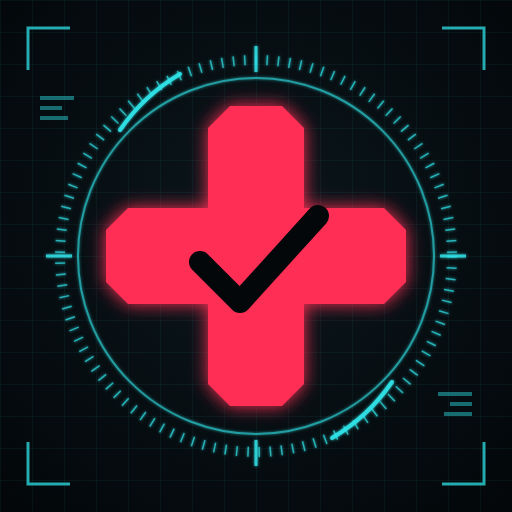
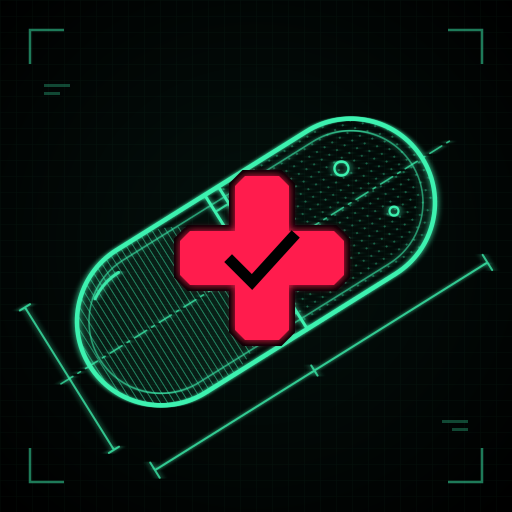
Własna ikona: kapsułka jak rysunek techniczny + czerwony krzyż z ptaszkiem
Rysuje narzedzia/ikony.py (icons/ikona.svg, ikona-mask.svg → PNG przez
rsvg-convert): 512, maskowalna 512, 192, 180 (iPhone), 32. Strona 2.1.6.

Claude-Session: https://claude.ai/code/session_01MPdLYsha9Aq7gx6zayc931

diff --git a/sw.js b/sw.js
@@ -1,6 +1,6 @@
 /* Service worker: aplikacja otwiera się nawet bez internetu (z ostatnimi danymi zapisanymi w przeglądarce).
    Strona i ikony: najpierw sieć, a gdy jej nie ma – kopia z pamięci. Zapytania do arkusza (script.google.com) nie są tu obsługiwane. */
-const CACHE = 'zdrowie-v2-1-4';   // podbij przy każdej wersji strony (ta sama co CLIENT_VERSION w app.js)
+const CACHE = 'zdrowie-v2-1-6';   // podbij przy każdej wersji strony (ta sama co CLIENT_VERSION w app.js)
 const SHELL = ['./', './index.html', './fonts.css', './styles.css', './skin-neon.css', './skin-synthwave.css', './skin-racer.css', './config.js', './skin.js', './rdzen.js', './logika.js', './app.js', './moduly.js', './manifest.webmanifest',
   './icons/icon-192.png', './icons/icon-512.png', './icons/icon-maskable-512.png', './icons/favicon-32.png', './icons/apple-touch-icon.png'];
 

diff --git a/app.js b/app.js
@@ -6,7 +6,7 @@
  * widok = dziennik z modelu + wpisy czekające w kolejce (Rdzen.outbox) + wpisy wysłane przed chwilą.
  * Kolejność plików: config.js → rdzen.js → logika.js → app.js → moduly.js. Start (Rdzen.boot) po wczytaniu wszystkich.
  ****************************************************************/
-window.CLIENT_VERSION = '2.1.4';
+window.CLIENT_VERSION = '2.1.6';
 (function () {
   'use strict';
   const L = Logika, esc = Rdzen.esc;

diff --git a/narzedzia/ikony.py b/narzedzia/ikony.py
@@ -1,62 +1,78 @@
-# Ikony aplikacji Zdrowie (od v2.0): czerwony krzyż z ptaszkiem (wariant C) na ciemnym tle w stylu planu technicznego.
-# Rysuje SVG (ikona-A/B/C.svg, wersje -mask do maskowania na Androidzie). PNG w icons/ powstały przez zrzut SVG w przeglądarce
-# (512, 192, 180 dla iPhone'a, maskowalna 512) i uproszczoną wersję 32 px. Źródło: icons/ikona.svg.
-import sys
-CYAN = '#2fe3e8'; RED = '#ff2d55'; BG1 = '#0b171c'; BG2 = '#03070a'
+# Ikony aplikacji Zdrowie (od v2.1.6): własny znak w klimacie „planu technicznego” – czarne tło, kapsułka leku
+# narysowana zielonymi liniami jak rysunek techniczny (kreskowanie, oś, wymiary) i czerwony krzyż z wyciętym ptaszkiem.
+# Rysuje icons/ikona.svg i icons/ikona-mask.svg (wersja do maskowania na Androidzie), PNG robi rsvg-convert.
+# Uruchom: python3 narzedzia/ikony.py
+import pathlib, subprocess
+from PIL import Image
 
-def tlo(maskowalna=False):
-    s = f'''<defs>
-  <radialGradient id="bg" cx="50%" cy="46%" r="70%"><stop offset="0" stop-color="{BG1}"/><stop offset="1" stop-color="{BG2}"/></radialGradient>
-  <filter id="glow" x="-30%" y="-30%" width="160%" height="160%"><feGaussianBlur stdDeviation="9" result="b"/><feMerge><feMergeNode in="b"/><feMergeNode in="SourceGraphic"/></feMerge></filter>
-  <filter id="cglow" x="-10%" y="-10%" width="120%" height="120%"><feGaussianBlur stdDeviation="1.6" result="b"/><feMerge><feMergeNode in="b"/><feMergeNode in="SourceGraphic"/></feMerge></filter>
-  <pattern id="grid" width="32" height="32" patternUnits="userSpaceOnUse"><path d="M32 0H0V32" fill="none" stroke="{CYAN}" stroke-opacity=".10" stroke-width="1"/></pattern>
-</defs>
-<rect width="512" height="512" fill="url(#bg)"/>
-<rect width="512" height="512" fill="url(#grid)"/>'''
-    # pierścień skanera z podziałką
-    s += f'''<g fill="none" stroke="{CYAN}" filter="url(#cglow)">
-  <circle cx="256" cy="256" r="178" stroke-opacity=".55" stroke-width="2"/>
-  <circle cx="256" cy="256" r="196" stroke-opacity=".7" stroke-width="10" stroke-dasharray="1.5 9.75"/>
-  <path d="M256 46v26M256 440v26M46 256h26M440 256h26" stroke-opacity=".8" stroke-width="3"/>
-  <path d="M120 130a190 190 0 0 1 60-56" stroke-opacity=".9" stroke-width="4" stroke-linecap="round"/>
-  <path d="M392 382a190 190 0 0 1-60 56" stroke-opacity=".9" stroke-width="4" stroke-linecap="round"/>
-</g>'''
-    if not maskowalna:
-        # narożniki i bloki „danych” (poza bezpieczną strefą maskowania)
-        s += f'''<g fill="none" stroke="{CYAN}" stroke-opacity=".75" stroke-width="3">
-  <path d="M28 70V28h42M484 70V28h-42M28 442v42h42M484 442v42h-42"/></g>
-<g fill="{CYAN}" fill-opacity=".45">
-  <rect x="40" y="96" width="34" height="4"/><rect x="40" y="106" width="22" height="4"/><rect x="40" y="116" width="28" height="4"/>
-  <rect x="438" y="392" width="34" height="4"/><rect x="450" y="402" width="22" height="4"/><rect x="444" y="412" width="28" height="4"/>
-</g>'''
-    return s
+D = pathlib.Path(__file__).resolve().parent.parent / 'icons'
+ZIEL = '#3cf2b0'; CZER = '#ff1f4d'; TLO = '#000000'
 
-def krzyz(w=96, l=300, sciecie=22):
+
+def krzyz(w=54, l=164, sciecie=10):
     a, b, c = w / 2, l / 2, sciecie
     pts = [(-a, -b + c), (-a + c, -b), (a - c, -b), (a, -b + c), (a, -a), (b - c, -a), (b, -a + c), (b, a - c), (b - c, a), (a, a),
            (a, b - c), (a - c, b), (-a + c, b), (-a, b - c), (-a, a), (-b + c, a), (-b, a - c), (-b, -a + c), (-b + c, -a), (-a, -a)]
-    return 'M' + ' L'.join(f'{256 + x:.1f} {256 + y:.1f}' for x, y in pts) + ' Z'
+    return 'M' + ' L'.join(f'{x:.1f} {y:.1f}' for x, y in pts) + ' Z'
 
-def wariant(nr, maskowalna=False):
-    skala = 0.86 if maskowalna else 1
-    g = f'<g transform="translate(256 256) scale({skala}) translate(-256 -256)">'
-    if nr == 'A':      # krzyż z linią pulsu (EKG) wyciętą w poziomym ramieniu
-        g += f'''<path d="{krzyz()}" fill="{RED}" filter="url(#glow)"/>
-<path d="M98 256h96l18-34 26 74 24-92 22 72 14-20h116" fill="none" stroke="{BG2}" stroke-width="13" stroke-linejoin="round" stroke-linecap="round"/>'''
-    elif nr == 'B':    # krzyż przecięty ukośnym cięciem, z obwódką jak z planu
-        g += f'''<path d="{krzyz()}" fill="{RED}" filter="url(#glow)"/>
-<path d="M150 362 362 150" stroke="{BG2}" stroke-width="14"/>
-<path d="{krzyz(132, 336, 30)}" fill="none" stroke="{RED}" stroke-opacity=".55" stroke-width="2.5" stroke-dasharray="14 8"/>'''
-    else:              # krzyż z wyciętym „ptaszkiem” odhaczenia
-        g += f'''<path d="{krzyz()}" fill="{RED}" filter="url(#glow)"/>
-<path d="M200 262l40 40 78-86" fill="none" stroke="{BG2}" stroke-width="22" stroke-linecap="round" stroke-linejoin="round"/>'''
-    return g + '</g>'
 
-def svg(nr, maskowalna=False):
-    return f'<svg xmlns="http://www.w3.org/2000/svg" viewBox="0 0 512 512" width="512" height="512">{tlo(maskowalna)}{wariant(nr, maskowalna)}</svg>'
+def kapsulka():
+    """Kapsułka leku jako rysunek techniczny, w układzie lokalnym (środek 0,0), przed obrotem."""
+    W, H = 392, 168
+    x0, y0, r = -W / 2, -H / 2, H / 2
+    s = f'''<defs>
+  <clipPath id="lewa"><rect x="{x0}" y="{y0}" width="{W/2 - 8}" height="{H}" rx="{r}"/></clipPath>
+  <pattern id="kresk" width="6" height="6" patternUnits="userSpaceOnUse"><path d="M0 0V6" stroke="{ZIEL}" stroke-width="1.6" stroke-opacity=".55"/></pattern>
+  <pattern id="kropki" width="9" height="9" patternUnits="userSpaceOnUse"><circle cx="2" cy="2" r="1" fill="{ZIEL}" fill-opacity=".35"/></pattern>
+</defs>
+<g fill="none" stroke="{ZIEL}" stroke-linecap="round" stroke-linejoin="round" filter="url(#poswiata)">
+  <rect x="{x0}" y="{y0}" width="{W/2 - 8}" height="{H}" rx="{r}" fill="url(#kresk)" stroke="none" clip-path="url(#lewa)"/>
+  <rect x="{8}" y="{y0}" width="{W/2 - 8}" height="{H}" fill="url(#kropki)" stroke="none" clip-path="url(#prawa)"/>
+  <rect x="{x0}" y="{y0}" width="{W}" height="{H}" rx="{r}" stroke-width="4.5"/>
+  <rect x="{x0 + 12}" y="{y0 + 12}" width="{W - 24}" height="{H - 24}" rx="{r - 12}" stroke-width="1.6" stroke-opacity=".55"/>
+  <path d="M-8 {y0}V{-y0}M8 {y0}V{-y0}" stroke-width="3"/>
+  <path d="M-8 {y0 + 20}h16M-8 {-y0 - 20}h16" stroke-width="2" stroke-opacity=".8"/>
+  <path d="M{x0 - 34} 0H{-x0 + 34}" stroke-width="1.6" stroke-opacity=".7" stroke-dasharray="14 6 3 6"/>
+  <path d="M{x0 + 40} {y0 + 30}a{r - 22} {r - 22} 0 0 1 34 -10" stroke-width="3" stroke-opacity=".9"/>
+  <circle cx="{-x0 - 74}" cy="-34" r="7" stroke-width="2.4"/><circle cx="{-x0 - 52}" cy="30" r="4.5" stroke-width="2.2"/>
+  <path d="M{x0} {-y0 + 30}V{-y0 + 48}M{-x0} {-y0 + 30}V{-y0 + 48}M{x0} {-y0 + 39}H{-x0}M-8 {-y0 + 33}V{-y0 + 45}" stroke-width="2" stroke-opacity=".75"/>
+  <path d="M{x0 - 30} {y0}H{x0 - 18}M{x0 - 30} {-y0}H{x0 - 18}M{x0 - 24} {y0}V{-y0}" stroke-width="2" stroke-opacity=".75"/>
+</g>'''
+    return s.replace('clip-path="url(#prawa)"', f'clip-path="url(#prawaClip)"').replace('</defs>', f'<clipPath id="prawaClip"><rect x="{x0}" y="{y0}" width="{W}" height="{H}" rx="{r}"/></clipPath></defs>')
+
+
+def svg(maskowalna=False):
+    skala = 0.8 if maskowalna else 1
+    s = f'''<svg xmlns="http://www.w3.org/2000/svg" viewBox="0 0 512 512" width="512" height="512">
+<defs>
+  <radialGradient id="tlo" cx="50%" cy="48%" r="70%"><stop offset="0" stop-color="#04110d"/><stop offset="1" stop-color="{TLO}"/></radialGradient>
+  <pattern id="siatka" width="16" height="16" patternUnits="userSpaceOnUse"><path d="M16 0H0V16" fill="none" stroke="{ZIEL}" stroke-opacity=".05" stroke-width="1"/></pattern>
+  <filter id="poswiata" x="-20%" y="-20%" width="140%" height="140%"><feGaussianBlur stdDeviation="2.2" result="b"/><feMerge><feMergeNode in="b"/><feMergeNode in="SourceGraphic"/></feMerge></filter>
+  <filter id="poswiataC" x="-30%" y="-30%" width="160%" height="160%"><feGaussianBlur stdDeviation="4" result="b"/><feMerge><feMergeNode in="b"/><feMergeNode in="SourceGraphic"/></feMerge></filter>
+</defs>
+<rect width="512" height="512" fill="url(#tlo)"/><rect width="512" height="512" fill="url(#siatka)"/>'''
+    if not maskowalna:
+        s += f'''<g fill="none" stroke="{ZIEL}" stroke-opacity=".5" stroke-width="2.5"><path d="M30 64V30h34M482 64V30h-34M30 448v34h34M482 448v34h-34"/></g>
+<g fill="{ZIEL}" fill-opacity=".28"><rect x="44" y="84" width="26" height="3"/><rect x="44" y="92" width="16" height="3"/><rect x="442" y="420" width="26" height="3"/><rect x="452" y="428" width="16" height="3"/></g>'''
+    s += f'<g transform="translate(256 262) scale({skala})">'
+    s += f'<g transform="rotate(-32)">{kapsulka()}</g>'
+    # czerwony znak: krzyż z wyciętym ptaszkiem, oddzielony od rysunku czarną obwódką
+    s += f'''<g transform="translate(6 -4)">
+  <path d="{krzyz()}" fill="none" stroke="{TLO}" stroke-width="12" stroke-linejoin="miter"/>
+  <path d="{krzyz()}" fill="{CZER}" filter="url(#poswiataC)"/>
+  <path d="M-30 4l20 20 40 -44" fill="none" stroke="{TLO}" stroke-width="11" stroke-linecap="square" stroke-linejoin="miter"/>
+</g></g></svg>'''
+    return s
+
 
 if __name__ == '__main__':
-    for nr in 'ABC':
-        open(f'ikona-{nr}.svg', 'w').write(svg(nr))
-        open(f'ikona-{nr}-mask.svg', 'w').write(svg(nr, True))
-    print('ok')
+    (D / 'ikona.svg').write_text(svg(), encoding='utf8')
+    (D / 'ikona-mask.svg').write_text(svg(True), encoding='utf8')
+    for zr, nazwa in [('ikona.svg', 'icon-512.png'), ('ikona-mask.svg', 'icon-maskable-512.png')]:
+        subprocess.run(['rsvg-convert', '-w', '512', '-h', '512', '-o', str(D / nazwa), str(D / zr)], check=True)
+    duza = Image.open(D / 'icon-512.png').convert('RGB')
+    for nazwa, r in [('icon-192.png', 192), ('apple-touch-icon.png', 180), ('favicon-32.png', 32)]:
+        duza.resize((r, r), Image.LANCZOS).save(D / nazwa, optimize=True)
+    duza.save(D / 'icon-512.png', optimize=True)
+    Image.open(D / 'icon-maskable-512.png').convert('RGB').save(D / 'icon-maskable-512.png', optimize=True)
+    print('ikony gotowe')
